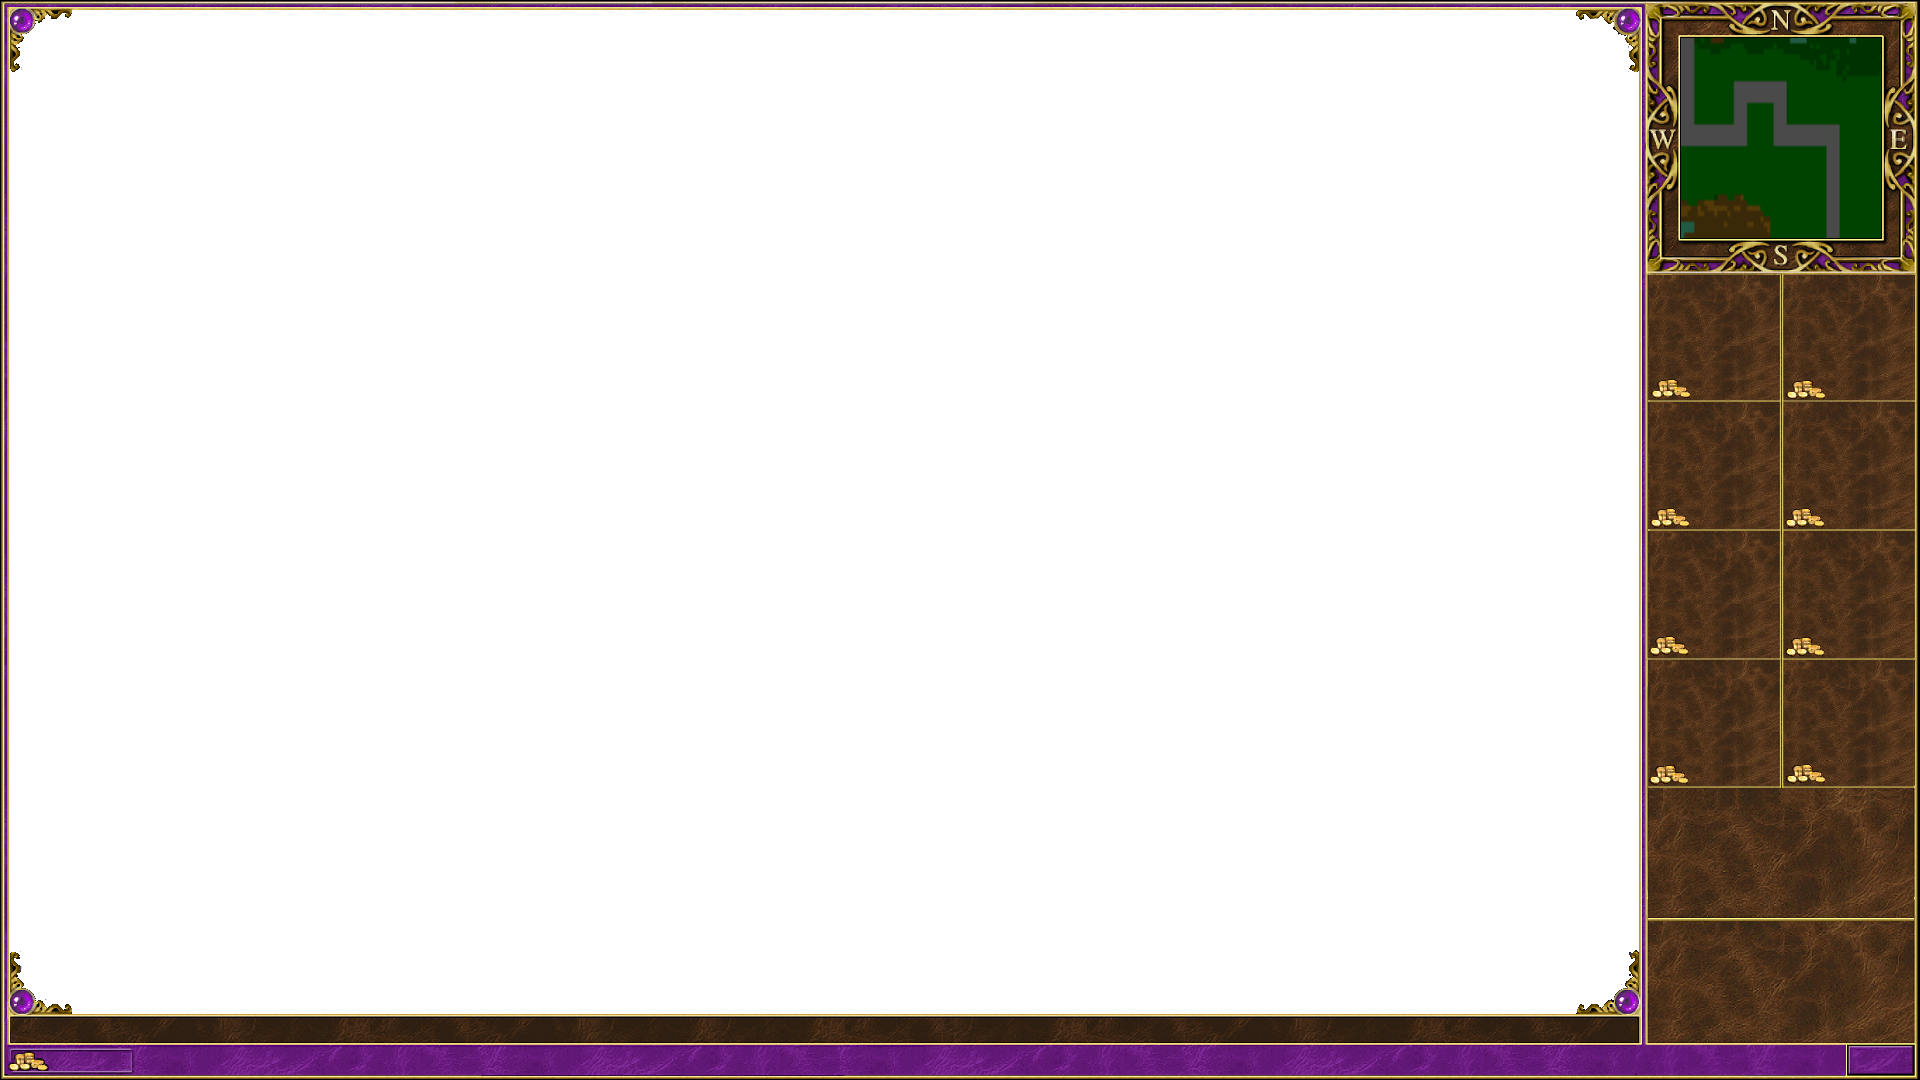
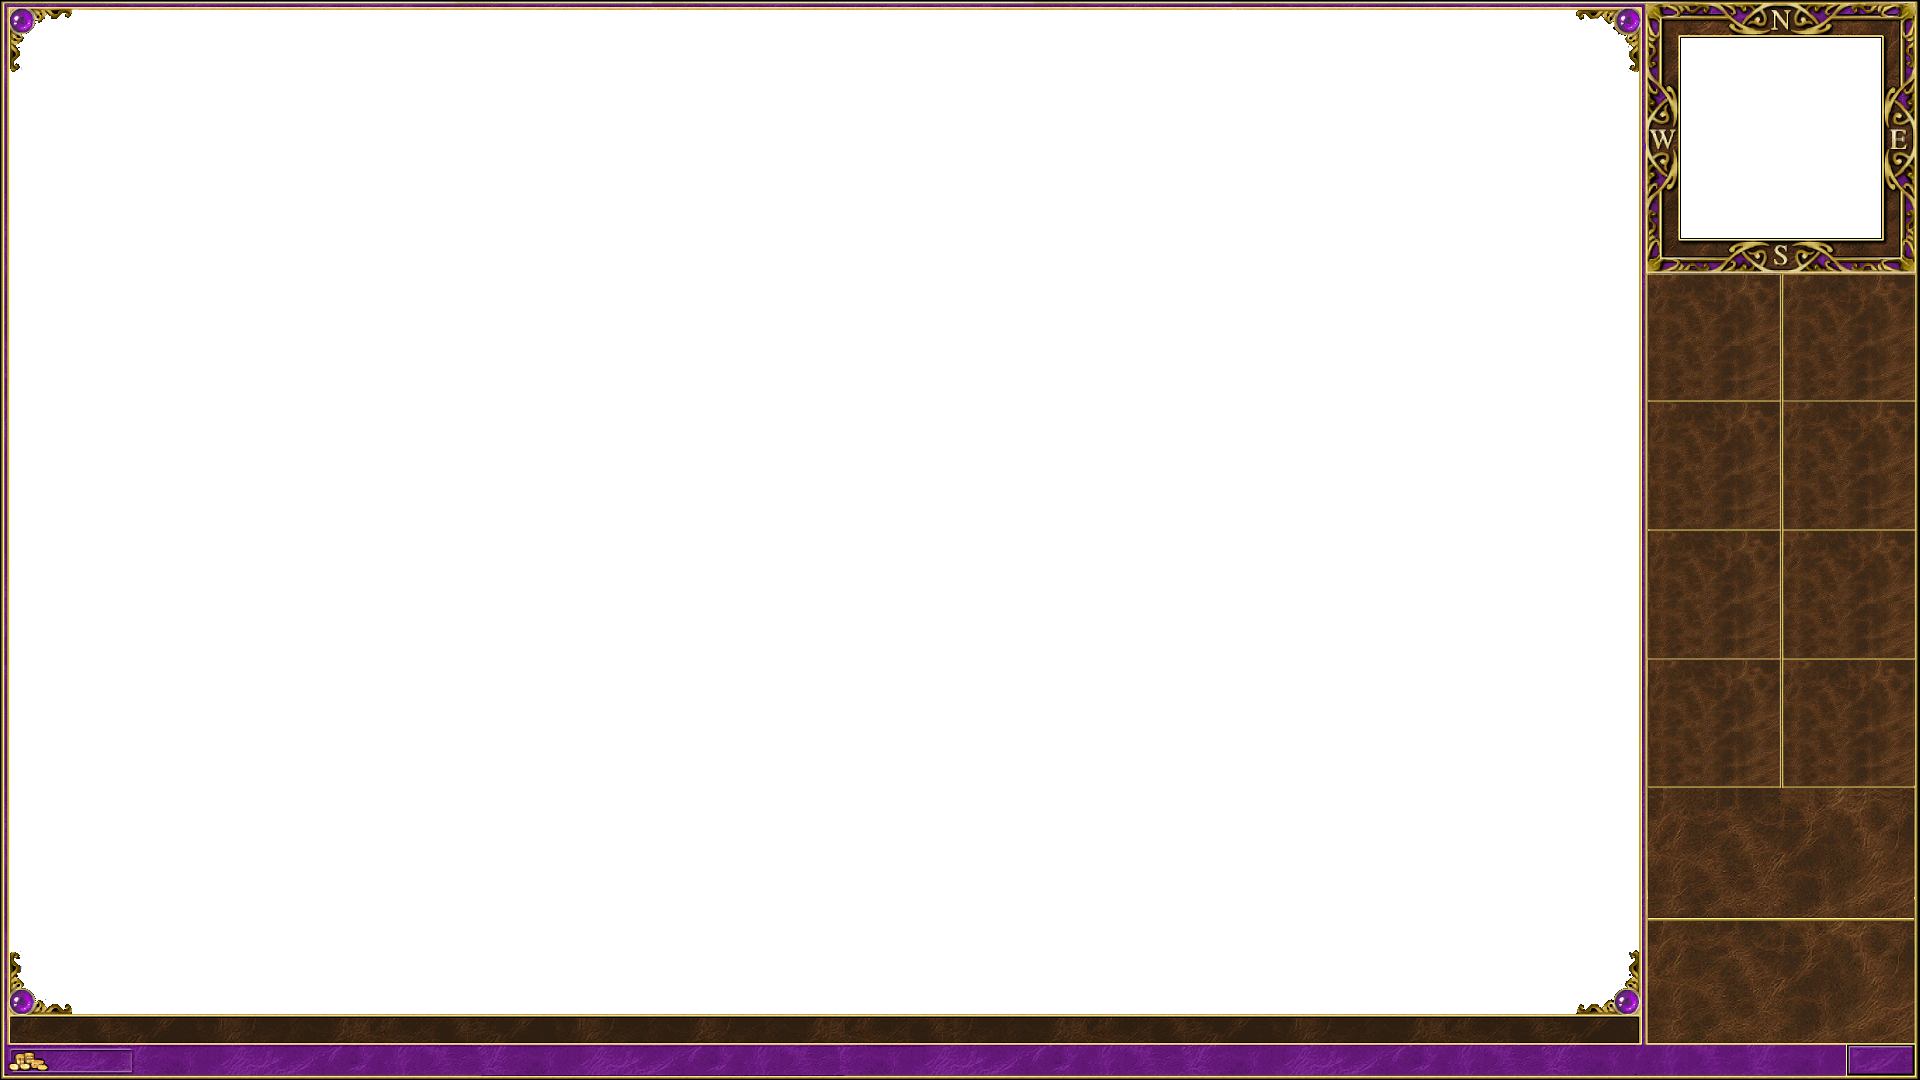
added units position display on mini map fixed tool tip display

diff --git a/TowerDefense/InGameState.cpp b/TowerDefense/InGameState.cpp
@@ -130,7 +130,7 @@ void InGameState::OnKeyDown(sf::Keyboard::Key KeyCode)
 
 void InGameState::Update(float DeltaTime)
 {
-    m_ToolTip->SetToolTip({});
+    m_ToolTip->InitializeToolTipText({});
 
     m_SpawningTimer -= DeltaTime;
 
@@ -146,13 +146,13 @@ void InGameState::Update(float DeltaTime)
     // sprawdz czy wyswietlic tooltip obiektu
     for (int i = 0; i < m_AllGameObjects.size(); ++i)
     {
-        if (m_AllGameObjects[i]->IsCursorOnButton())
+        if (m_AllGameObjects[i]->IsCursorOverObject())
         {
-            auto TooltipData = m_AllGameObjects[i]->GetToolTip();
+            vector<string> TooltipData = m_AllGameObjects[i]->GetToolTip();
 
             if(!TooltipData.empty())
             {
-                m_ToolTip->SetToolTip(TooltipData);
+                m_ToolTip->InitializeToolTipText(TooltipData);
                 break;
             }
         }
@@ -163,7 +163,7 @@ void InGameState::Update(float DeltaTime)
     {
         none_of(m_AllGameObjects.begin(), m_AllGameObjects.end(), [this](shared_ptr<GameObject> o)
         {
-            if (o->IsCursorOnButton())
+            if (o->IsCursorOverObject())
             {
                 Engine::GetSingleton()->GetWindow().setMouseCursor(m_CursorHand);
                 return true;
@@ -262,19 +262,6 @@ void InGameState::Render(sf::RenderWindow& Renderer)
 
     // rysowanie czcionki
     m_Font->DrawText(Renderer, 1, 60, 1058, ToString(m_Money).c_str());
-
-    if (m_Money < (int)eTowerPrice::Tower1)
-    {
-        m_Font->DrawText(Renderer, 1, 1700, 388, ToString((int)eTowerPrice::Tower1).c_str(), sf::Color::Red);
-    }
-    else m_Font->DrawText(Renderer, 1, 1700, 388, ToString((int)eTowerPrice::Tower1).c_str());
-
-
-    if (m_Money < (int)eTowerPrice::Tower2)
-    {
-        m_Font->DrawText(Renderer, 1, 1835, 388, ToString((int)eTowerPrice::Tower2).c_str(), sf::Color::Red);
-    }
-    else m_Font->DrawText(Renderer, 1, 1835, 388, ToString((int)eTowerPrice::Tower2).c_str());
 
     Renderer.display();
 }
@@ -387,7 +374,7 @@ void InGameState::Shoot(vec2 StartingPosition, shared_ptr<Unit> Target)
                     int cellY = (towers[i]->GetPosition().y / CELL_SIZE);
                     m_Grid[cellY % GRID_ROWS][cellX % GRID_COLS] = eGridValue::FREE;
                     towers[i]->SetLifeStatus(false);
-            }   
+                }   
             }
     };
 
@@ -409,14 +396,19 @@ void InGameState::Shoot(vec2 StartingPosition, shared_ptr<Unit> Target)
 
     buttonSize = Engine::GetSingleton()->GetTextureSize("SellButton.png");
     shared_ptr<Button> sellButton = make_shared<Button>("SellButton.png", vec2i(1660, 925), buttonSize, func4);
+    sellButton->SetToolTipText({"sell tower", "for half prize"});
     m_AllGameObjects.push_back(sellButton);
 
     shared_ptr<Image> backgroundImage = make_shared<Image>("Background", vec2(0, 0), vec2(0, 0)); 
     backgroundImage->SetGraphicLayer(eGraphicLayer::BACKGROUND);
     m_AllGameObjects.push_back(backgroundImage);
 
+    shared_ptr<Image> overlayImageMap = make_shared<Image>("OverlayMap", vec2(MAP_X, MAP_Y), vec2(0, 0)); 
+    overlayImageMap->SetGraphicLayer(eGraphicLayer::FOREGROUND);
+    m_AllGameObjects.push_back(overlayImageMap);
+
     shared_ptr<Image> overlayImage = make_shared<Image>("Overlay", vec2(0, 0), vec2(0, 0)); 
-    overlayImage->SetGraphicLayer(eGraphicLayer::FOREGROUND);
+    overlayImage->SetGraphicLayer(eGraphicLayer::OVERLAY);
     m_AllGameObjects.push_back(overlayImage);
 
 

diff --git a/TowerDefense/Tower.cpp b/TowerDefense/Tower.cpp
@@ -4,7 +4,6 @@
 
 Tower::Tower(InGameState& Game, vec2 Position) : m_Game(Game)
 {
-    m_DetectionArea.setRadius(m_DetectionRadius);
     SetSize(vec2i(CELL_SIZE,CELL_SIZE));
     SetPosition(vec2(((int(Position.x)/CELL_SIZE * CELL_SIZE) + CELL_SIZE / 2), (int(Position.y)/CELL_SIZE * CELL_SIZE) + CELL_SIZE / 2));
 }
@@ -38,12 +37,12 @@ void Tower::Update(float DeltaTime)
 
         if (checkIfInCircle <= pow(m_DetectionRadius, 2))
         {
-            m_DetectionArea.setOutlineColor(sf::Color::Red);
+            m_DetectionArea.setOutlineColor(sf::Color::Red * sf::Color(255,255,255,192));
             Shoot(GetPosition(), units[i]);
         }
         else 
         {
-            m_DetectionArea.setOutlineColor(sf::Color::Cyan);
+            m_DetectionArea.setOutlineColor(sf::Color::Black * sf::Color(255,255,255,192));
         }
 
     }
@@ -56,16 +55,19 @@ void Tower::Render(sf::RenderWindow& Renderer)
     else
         Engine::GetSingleton()->DisplayTexture((m_Name).c_str(), GetPosition(), DisplayParameters{.Pivot{0.5, 0.5}});
 
-    // -------debug-----------
-    // m_DetectionArea.setFillColor(sf::Color::Transparent);
-    // m_DetectionArea.setOutlineThickness(3.f);
-    // m_DetectionArea.setPosition(m_Position - vec2(m_DetectionRadius, m_DetectionRadius));
-    // Renderer.draw(m_DetectionArea);
+    //-------debug-----------
+    if (IsCursorOverObject())
+    {
+        m_DetectionArea.setFillColor(sf::Color::Black * sf::Color(255,255,255,128));
+        m_DetectionArea.setOutlineThickness(3.f);
+        m_DetectionArea.setPosition(m_Position - vec2(m_DetectionRadius, m_DetectionRadius));
+        Renderer.draw(m_DetectionArea);
+    }
 }
 
 bool Tower::OnMouseButtonDown(int Button)
 {
-    if (IsCursorOnButton())
+    if (IsCursorOverObject())
     {
         m_Picked = !m_Picked;
         return true;
@@ -74,7 +76,7 @@ bool Tower::OnMouseButtonDown(int Button)
     return false;
 }
 
-bool Tower::IsCursorOnButton()const
+bool Tower::IsCursorOverObject()const
 {
     vec2i mousePos = Engine::GetSingleton()->GetMousePos();
 
@@ -97,10 +99,11 @@ void Tower::Initialize(const Definition& Def)
     m_Name = Def.GetStringValue("Name");
     m_Cost = Def.GetIntValue("Cost");
     m_Damage = Def.GetFloatValue("Damage");
+    m_DetectionRadius = Def.GetIntValue("DetectionRadius");
     m_ShootInterval = Def.GetFloatValue("ShootInterval");
 
-
     m_TextureSize = Engine::GetSingleton()->GetTextureSize((m_Name).c_str());
+    m_DetectionArea.setRadius(m_DetectionRadius);
 }
 
 void Tower::Shoot(vec2 StartingPosition, shared_ptr<Unit> Target)

diff --git a/TowerDefense/ToolTip.cpp b/TowerDefense/ToolTip.cpp
@@ -14,20 +14,54 @@ void ToolTip::Render(sf::RenderWindow& Renderer)
     int mouseX = Engine::GetSingleton()->GetMousePos().x;
     int mouseY = Engine::GetSingleton()->GetMousePos().y;
 
-    sf::RectangleShape box(vec2(200.f, 200.f));
+    // rozmiar jednej literki w pikselach
+    const float letterPxSize = 8;
+    // wielkosc odstepu miedzy kolejnymi wierszami
+    const float lineSpacing = 2 * letterPxSize;
+    // szerokosc tekstu, czyli najdluzszego wiersza (posiadajacego najwiecej liter)
+    float textMaxWidth = 0;
+
+    for (size_t i = 0; i < m_Data.size(); ++i)
+    {
+        float textWidth = m_Data[i].size() * letterPxSize; 
+        textMaxWidth = std::max(textMaxWidth, textWidth);
+    }
+    // wysokosc tekstu - ilosc linii do wyswietlenia wraz z odstepami miedzy nimi
+    float textMaxHeight = m_Data.size() * lineSpacing;
+    // ustawienie rozmiau boxa do max szerokosci i wysokosci wyswietlanego tekstu
+    vec2 boxSize(textMaxWidth + 40.f, textMaxHeight + 40.f);
+
+    sf::RectangleShape box(boxSize);
     box.setFillColor(sf::Color::Black * sf::Color(255,255,255,128));
     box.setOutlineColor(sf::Color::Black * sf::Color(255,255,255,192));
-    box.setPosition(vec2(mouseX, mouseY) - vec2(100.f, 100.f));
+    box.setOutlineThickness(2.f);
 
+    vec2 shift(0,0);
+
+    box.setPosition(vec2(mouseX, mouseY));
+
+    if (mouseX + boxSize.x >= SCREEN_WIDTH)
+    {
+        shift.x = boxSize.x;
+    }
+
+    if (mouseY + boxSize.y >= SCREEN_HEIGHT)
+    {
+        shift.y = boxSize.y;
+    }
+
+    box.setPosition(vec2(mouseX - shift.x, mouseY - shift.y));
     Renderer.draw(box);
 
     for (size_t i = 0; i < m_Data.size(); ++i)
     {
-        m_Font->DrawText(Renderer, 1, mouseX - m_Data[i].size() * 8 / 2, mouseY - 8 / 2 + i * 16, m_Data[i].c_str());
+        float textWidth = m_Data[i].size() * letterPxSize;
+        //                                wysrodkowanie w boxie  wysrodk. tekstu                   
+        m_Font->DrawText(Renderer, 1, (mouseX + boxSize.x / 2 - textWidth / 2 - shift.x), (mouseY + i * lineSpacing - shift.y + 25), m_Data[i].c_str());
     }
 }
 
-void ToolTip::SetToolTip(vector<string> Data)
+void ToolTip::InitializeToolTipText(vector<string> Data)
 {
     m_Data = Data;
 }

diff --git a/TowerDefense/Unit.cpp b/TowerDefense/Unit.cpp
@@ -50,24 +50,24 @@ void Unit::Update(float DeltaTime)
 
 void Unit::Render(sf::RenderWindow& Renderer)
 {
-    // debug 
-    // vector<sf::Vertex> vertices;
-    // for (auto el : m_TargetPositions)
-    // {
-    //     vertices.push_back(sf::Vertex((sf::Vector2f)el, sf::Color::Cyan));
-    // }
+    // wyliczamy mnoznik, ktory przeskalowuje pozycje z ekranu na mini mape o rozmiarze (200,200)
+    vec2 worldToMapRatio = vec2(MAP_WIDTH, MAP_HEIGHT) / vec2(SCREEN_WIDTH, SCREEN_HEIGHT);
+    // wyliczamy pozycje na mini mapie, dodajac do pozycji mapy, przeskalowana pozycje jednostki 
+    vec2 mapPosition = vec2(MAP_X, MAP_Y) + (GetPosition() * worldToMapRatio);
 
-    // przekazujemy .data(), gdy� funkcja draw() przyjmuje wska�nik na pierwszy element i liczb� element�w w CPojemniku
-    // Renderer.draw(vertices.data(), vertices.size(), sf::LineStrip);
+    // renderowanie pozycji jednostki na mini mapie
+    sf::RectangleShape unitOnMap(vec2(4.f, 4.f));
+    unitOnMap.setFillColor(sf::Color::Red);
+    unitOnMap.setPosition(mapPosition - vec2(2.f, 2.f));
+    Renderer.draw(unitOnMap);
 
-    // TEKSTURA
+    // tekstura
     if (m_HurtTimer >= 0)
         Engine::GetSingleton()->DisplayTexture(m_Name, GetPosition() + GetSize() / 2, DisplayParameters{.DrawMode = eDrawMode::ADDITIVE, .Pivot{0.5, 0.5}});
     else 
         Engine::GetSingleton()->DisplayTexture(m_Name, GetPosition() + GetSize() / 2, DisplayParameters{.Pivot{0.5, 0.5}});
 
-
-    // POZIOM HP
+    // poziom HP
     sf::RectangleShape lifeBar(vec2(50.f, 15.f));
     lifeBar.setFillColor(sf::Color::Transparent);
     lifeBar.setOutlineColor(sf::Color::White);

diff --git a/TowerDefense/Button.cpp b/TowerDefense/Button.cpp
@@ -12,7 +12,7 @@ Button::Button(string TextureName, vec2i Position, vec2i Size, function<void()> 
 
 void Button::Render(sf::RenderWindow& Renderer)
 {
-    if (IsCursorOnButton())
+    if (IsCursorOverObject())
     {
         Engine::GetSingleton()->DisplayTexture(m_TextureName, vec2i(GetPosition().x - 5, GetPosition().y + 5));
     }
@@ -21,7 +21,7 @@ void Button::Render(sf::RenderWindow& Renderer)
 
 bool Button::OnMouseButtonDown(int Button)
 {
-    if (IsCursorOnButton())
+    if (IsCursorOverObject())
     {
         m_Function();
         return true;
@@ -29,7 +29,7 @@ bool Button::OnMouseButtonDown(int Button)
     return false;
 }
 
-bool Button::IsCursorOnButton()const
+bool Button::IsCursorOverObject()const
 {
     vec2i mousePos = Engine::GetSingleton()->GetMousePos();
 
@@ -48,9 +48,19 @@ bool Button::IsCursorOnButton()const
     return false;
 }
 
+vector<string> Button::GetToolTip()const
+{
+    return m_ToolTip;
+}
+
+void Button::SetToolTipText(vector<string> ToolTip)
+{
+    m_ToolTip = ToolTip;
+}
+
 vector<string> TowerButton::GetToolTip()const
 {
-    if (!IsCursorOnButton())
+    if (!IsCursorOverObject())
         return {};
 
     vector<string> tmp;
@@ -58,6 +68,7 @@ vector<string> TowerButton::GetToolTip()const
     tmp.push_back(m_pDef->GetStringValue("Name"));
     tmp.push_back(ToString(m_pDef->GetIntValue("Cost")));
     tmp.push_back(ToString(m_pDef->GetFloatValue("Damage")));
+    tmp.push_back(ToString(m_pDef->GetIntValue("DetectionRadius")));
     tmp.push_back(ToString(m_pDef->GetFloatValue("ShootInterval")));
 
     return tmp;

diff --git a/TowerDefense/Tower.h b/TowerDefense/Tower.h
@@ -11,7 +11,7 @@ public:
     void Update(float DeltaTime)override;
     void Render(sf::RenderWindow& Renderer)override;
     bool OnMouseButtonDown(int Button)override;
-    bool IsCursorOnButton()const override;
+    bool IsCursorOverObject()const override;
     void Initialize(const Definition& Def);
     void Shoot(vec2 StartingPosition, shared_ptr<Unit> Target);
 
@@ -25,7 +25,7 @@ private:
     float           m_Damage = 0;
     float           m_ShootInterval = 0;
     vec2i           m_TextureSize;
-    float           m_DetectionRadius = 170.f;
+    float           m_DetectionRadius = 0;
     sf::CircleShape m_DetectionArea;
     bool            m_Picked = false;
 

diff --git a/TowerDefense/Button.h b/TowerDefense/Button.h
@@ -9,10 +9,13 @@ public:
     void Update(float DeltaTime)override {};
     void Render(sf::RenderWindow& Renderer)override;
     bool OnMouseButtonDown(int Button)override;
-    bool IsCursorOnButton()const override;
+    bool IsCursorOverObject()const override;
+    vector<string> GetToolTip()const override;
+    void SetToolTipText(vector<string> ToolTip);
 
 private:
-    string m_TextureName;
+    string           m_TextureName;
+    vector<string>   m_ToolTip;
     function<void()> m_Function;
 };
 

diff --git a/TowerDefense/GameObject.h b/TowerDefense/GameObject.h
@@ -8,7 +8,7 @@ public:
     virtual void Update(float DeltaTime) = 0;
     virtual void Render(sf::RenderWindow& Renderer) = 0;
     virtual bool OnMouseButtonDown(int Button) { return false; };
-    virtual bool IsCursorOnButton()const { return false; };
+    virtual bool IsCursorOverObject()const { return false; };
     virtual vector<string> GetToolTip()const { return {}; };
 
     vec2 GetPosition()const;

diff --git a/TowerDefense/vec2.cpp b/TowerDefense/vec2.cpp
@@ -125,6 +125,16 @@ vec2 vec2::operator/(float scalar)const
     return result;
 }
 
+vec2 vec2::operator / (const vec2& other)const
+{
+    vec2 result;
+
+    result.x = x / other.x;
+    result.y = y / other.y;
+
+    return result;
+}
+
 //============================================
 #include "vec2.h"
 

diff --git a/TowerDefense/ToolTip.h b/TowerDefense/ToolTip.h
@@ -9,7 +9,7 @@ public:
     ToolTip(shared_ptr<Font> MyFont);
     void Update(float DeltaTime)override {};
     void Render(sf::RenderWindow& Renderer)override;
-    void SetToolTip(vector<string> Data);
+    void InitializeToolTipText(vector<string> Data);
 
 private:
     shared_ptr<Font> m_Font; 

diff --git a/TowerDefense/vec2.h b/TowerDefense/vec2.h
@@ -27,6 +27,7 @@ public:
     vec2 operator*(const vec2& other)const;
     vec2 operator*(float scalar)const;
     vec2 operator / (float scalar)const;
+    vec2 operator / (const vec2& other)const;
     auto operator<=>(const vec2& other)const = default;
 };
 

diff --git a/TowerDefense/Common.h b/TowerDefense/Common.h
@@ -34,6 +34,10 @@ enum : int
 {
     SCREEN_WIDTH = 1920,
     SCREEN_HEIGHT = 1080,
+    MAP_WIDTH = 200,
+    MAP_HEIGHT = 200,
+    MAP_X = 1681,
+    MAP_Y = 38,
     GRID_ROWS = 17,
     GRID_COLS = 30,
     CELL_SIZE = 64,
